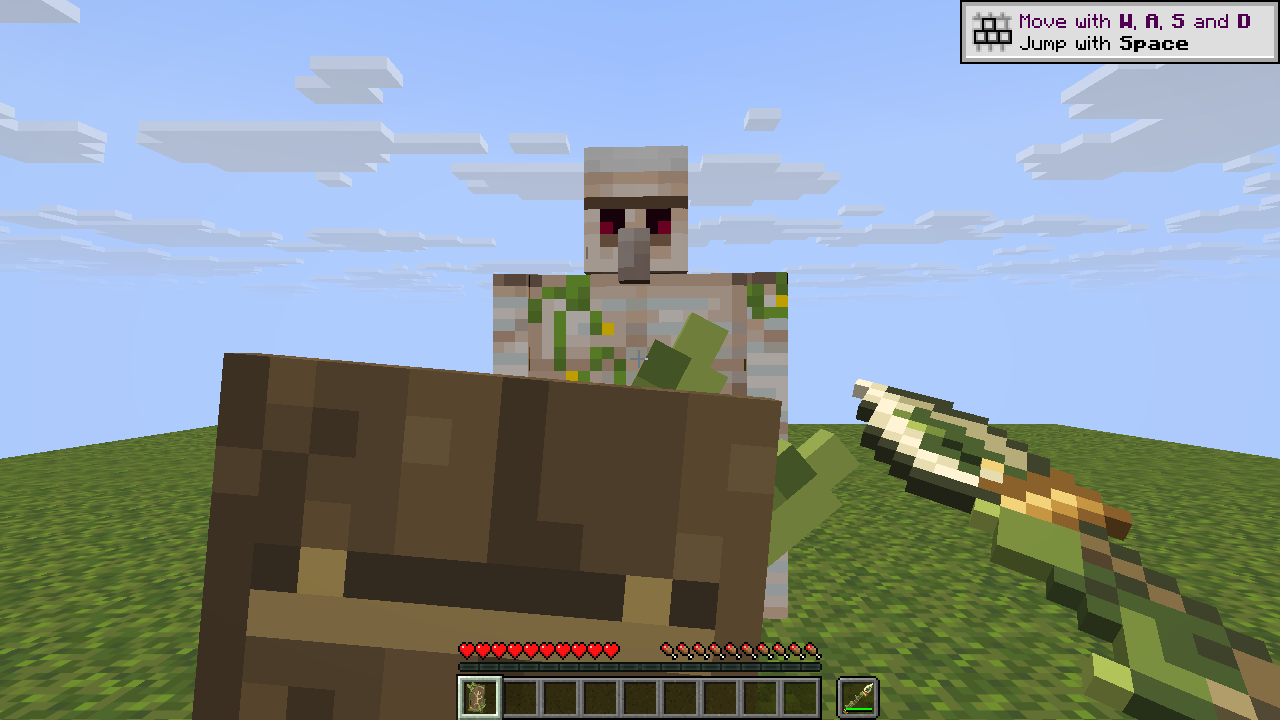
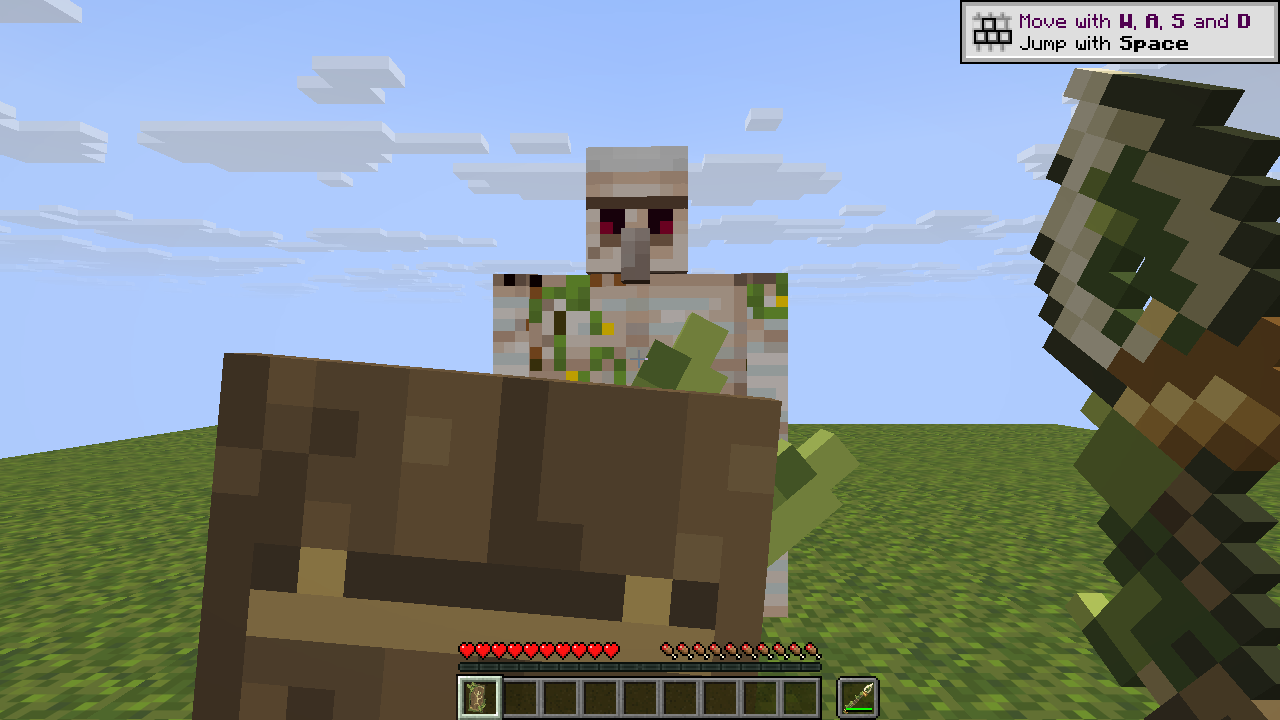
Unify spear and shield controls for both hands
正反手统一为右键举盾、左键戳刺，举盾中也可戳刺并保留原版减速。移除反手并行动能冲刺及专用姿态，保留副手伤害、冷却、种印和损毁槽位处理。更新四种客户端组合截图与分层验证记录。

Changed region(s): [[0.6562, 0.0917, 1.0, 1.0], [0.375, 0.3361, 0.5, 0.5194]]

diff --git a/src/main/java/dev/logos/dimension/gametest/ElfSpearGameTests.java b/src/main/java/dev/logos/dimension/gametest/ElfSpearGameTests.java
@@ -58,7 +58,6 @@ public final class ElfSpearGameTests {
                 Map.entry("elf_spear_many", ElfSpearGameTests::many),
                 Map.entry("elf_spear_offhand_delay", ElfSpearGameTests::offhandDelay),
                 Map.entry("elf_spear_guard_reverse", ElfSpearGameTests::guardReverse),
-                Map.entry("elf_spear_guard_charge", ElfSpearGameTests::guardCharge),
                 Map.entry("elf_spear_guard_no_charge", ElfSpearGameTests::guardNoCharge),
                 Map.entry("elf_spear_guard_break", ElfSpearGameTests::guardBreak));
         tests.forEach((name, test) -> FUNCTIONS.register(name, () -> test)); FUNCTIONS.register(bus);
@@ -276,34 +275,36 @@ public final class ElfSpearGameTests {
                     "副手矛属性残留为常驻加成");
             f.target.invulnerableTime = 0; stabPacket(f); health(h, f.target, 96);
             f.p.getMainHandItem().use(h.getLevel(), f.p, InteractionHand.MAIN_HAND);
-            h.assertTrue(f.p.isBlocking() && SpearShieldGuard.kineticActive(f.p), "反手右键没有同时举盾与冲刺");
+            h.assertTrue(f.p.isBlocking() && f.p.getUseItem().is(AncientEmbraceItem.ITEM.get()), "反手右键未正常举盾");
+            var origin = f.p.position();
+            for (int i = 0; i < 14; i++) { f.p.setDeltaMovement(Vec3.ZERO); f.p.doTick(); f.p.setPos(origin); }
+            f.p.setYRot(-90); f.p.setYHeadRot(-90); f.resetTarget(); f.target.setPos(origin.add(3, 0, 0));
+            int elapsed = f.p.getTicksUsingItem(); double mana = LogosNatureBridge.mana(f.p);
+            stabPacket(f); health(h, f.target, 96);
+            h.assertTrue(f.p.isBlocking() && f.p.getTicksUsingItem() == elapsed && f.marked()
+                    && LogosNatureBridge.mana(f.p) == mana && !f.target.hasEffect(LogosNatureBridge.lifeVulnerability().orElseThrow()),
+                    "反手举盾戳刺中断盾、误耗印记或造成生命追加");
+            h.assertTrue(f.p.getAttributeValue(Attributes.ATTACK_DAMAGE) == 1 && f.p.getAttributeValue(Attributes.ATTACK_SPEED) == 4,
+                    "反手举盾戳刺留下攻击属性");
             f.target.invulnerableTime = 0; stabPacket(f); health(h, f.target, 96);
-            h.assertTrue(LogosNatureBridge.mana(f.p) == 20 && f.marked(), "反手举盾时的左键误触戳刺或印记");
-        } h.succeed();
-    }
-    private static void guardCharge(GameTestHelper h) {
-        try (var f = Fixture.create(h)) {
-            reverse(f); stabPacket(f); f.resetTarget();
-            f.p.getMainHandItem().use(h.getLevel(), f.p, InteractionHand.MAIN_HAND);
-            f.p.resetOnlyAttackStrengthTicker(); f.p.known = new Vec3(.5, 0, 0);
-            f.p.getMainHandItem().onUseTick(h.getLevel(), f.p, 72000 - 11); health(h, f.target, 100);
-            f.p.getMainHandItem().onUseTick(h.getLevel(), f.p, 72000 - 12); health(h, f.target, 84);
-            h.assertTrue(f.p.isBlocking() && !f.marked() && LogosNatureBridge.mana(f.p) == 15
-                    && f.target.hasEffect(LogosNatureBridge.lifeVulnerability().orElseThrow()), "同时冲刺未保留盾或生命印记结算");
-            f.resetTarget(); f.p.getMainHandItem().onUseTick(h.getLevel(), f.p, 72000 - 13); health(h, f.target, 100);
-            h.assertTrue(f.p.wasRecentlyStabbed(f.target, 10), "未使用原版接触冷却表");
-            f.p.stopUsingItem(); f.p.getMainHandItem().onUseTick(h.getLevel(), f.p, 72000 - 14); health(h, f.target, 100);
-            h.assertTrue(!SpearShieldGuard.kineticActive(f.p), "收盾后仍在冲刺");
         } h.succeed();
     }
     private static void guardNoCharge(GameTestHelper h) {
-        try (var f = Fixture.create(h)) {
-            f.p.setItemInHand(InteractionHand.OFF_HAND, new ItemStack(AncientEmbraceItem.ITEM.get()));
-            f.p.getMainHandItem().use(h.getLevel(), f.p, InteractionHand.MAIN_HAND);
-            f.p.getOffhandItem().use(h.getLevel(), f.p, InteractionHand.OFF_HAND);
-            f.p.known = new Vec3(.5, 0, 0);
-            f.p.getOffhandItem().onUseTick(h.getLevel(), f.p, 72000 - 40); health(h, f.target, 100);
-            h.assertTrue(f.p.isBlocking() && !SpearShieldGuard.kineticActive(f.p), "主矛副盾错误启用冲刺");
+        for (boolean swapped : new boolean[]{false, true}) try (var f = Fixture.create(h)) {
+            if (swapped) reverse(f);
+            else f.p.setItemInHand(InteractionHand.OFF_HAND, new ItemStack(AncientEmbraceItem.ITEM.get()));
+            var shieldHand = swapped ? InteractionHand.MAIN_HAND : InteractionHand.OFF_HAND;
+            var shield = f.p.getItemInHand(shieldHand);
+            shield.use(h.getLevel(), f.p, shieldHand);
+            var mark = new SproutMark(f.p.getUUID(), h.getLevel().getGameTime() + 120);
+            f.target.setData(NatureAttachments.SPROUT_MARK, mark); double mana = LogosNatureBridge.mana(f.p);
+            f.p.known = new Vec3(1, 0, 0);
+            shield.onUseTick(h.getLevel(), f.p, 72000 - 40); health(h, f.target, 100);
+            h.assertTrue(f.p.isBlocking() && f.target.getData(NatureAttachments.SPROUT_MARK).equals(mark)
+                    && LogosNatureBridge.mana(f.p) == mana, "双持举盾错误触发动能冲撞或生命追加");
+            var effects = shield.getOrDefault(DataComponents.USE_EFFECTS, net.minecraft.world.item.component.UseEffects.DEFAULT);
+            var vanilla = new ItemStack(Items.SHIELD).getOrDefault(DataComponents.USE_EFFECTS, net.minecraft.world.item.component.UseEffects.DEFAULT);
+            h.assertTrue(effects.equals(vanilla) && effects.speedMultiplier() < 1, "未保留原版举盾减速");
         } h.succeed();
     }
     private static void guardBreak(GameTestHelper h) {

diff --git a/src/main/java/dev/logos/dimension/client/SpearShieldView.java b/src/main/java/dev/logos/dimension/client/SpearShieldView.java
@@ -19,7 +19,7 @@ import net.minecraft.world.level.GameType;
 import net.minecraft.world.level.block.Blocks;
 import net.minecraft.world.phys.Vec3;
 
-/** 四种握持/惯用手组合，用实际右键与左键输入验证盾优先、举盾戳刺和反手双使用姿态。 */
+/** 四种握持/惯用手组合，验证统一的右键举盾、举盾戳刺与两键同刻操作。 */
 @LDLRegisterClient(name = "spear_shield_main_right", group = "spear_shield", registry = UIScenario.REGISTRY, environment = RegistrationEnvironment.DEV_ONLY)
 public class SpearShieldView implements UIScenario {
     private HumanoidArm previousArm;
@@ -59,14 +59,16 @@ public class SpearShieldView implements UIScenario {
                 .server("复位靶子", ctx -> { var t = ctx.player().level().getEntity(targetId); t.setPos(.5, 100, 1); t.setDeltaMovement(Vec3.ZERO); })
                 .ticks(16).step("实际右键自动选择盾", ctx -> {
                     var mc = Minecraft.getInstance(); mc.options.keyUse.setDown(true); KeyMapping.click(mc.options.keyUse.getKey());
-                    if (reverse()) KeyMapping.click(mc.options.keyAttack.getKey());
+                    KeyMapping.click(mc.options.keyAttack.getKey());
                 }).waitUntil("举盾同步", ctx -> SpearShieldGuard.guarding(Minecraft.getInstance().player))
                 .ticks(15)
-                .check("实际使用手与冲刺模式", ctx -> Minecraft.getInstance().player.getUsedItemHand() == (reverse() ? InteractionHand.MAIN_HAND : InteractionHand.OFF_HAND)
-                        && SpearShieldGuard.kineticActive(Minecraft.getInstance().player) == reverse())
+                .check("实际使用手始终为盾", ctx -> Minecraft.getInstance().player.getUsedItemHand() == (reverse() ? InteractionHand.MAIN_HAND : InteractionHand.OFF_HAND)
+                        && Minecraft.getInstance().player.getUseItem().is(AncientEmbraceItem.ITEM.get()))
+                .checkServer("两键同刻可以戳刺并举盾", ctx -> ((LivingEntity) ctx.player().level().getEntity(targetId)).getHealth() == 92)
+                .server("复位同时攻击后的靶子", ctx -> { var t = ctx.player().level().getEntity(targetId); t.setPos(.5, 100, 1); t.setDeltaMovement(Vec3.ZERO); })
                 .screenshot("spear_shield_first_person")
                 .step("举盾中实际左键", ctx -> clickAttack()).ticks(5)
-                .checkServer("举盾左键遵循两种握持规则", ctx -> ((LivingEntity) ctx.player().level().getEntity(targetId)).getHealth() == (reverse() ? 96 : 92))
+                .checkServer("两种握持均可举盾戳刺", ctx -> ((LivingEntity) ctx.player().level().getEntity(targetId)).getHealth() == 88)
                 .check("左键没有放下盾", ctx -> SpearShieldGuard.guarding(Minecraft.getInstance().player))
                 .server("确认仍可实际格挡", ctx -> {
                     var target = (LivingEntity) ctx.player().level().getEntity(targetId); target.setPos(.5, 100, 1); target.setDeltaMovement(Vec3.ZERO);
@@ -79,7 +81,7 @@ public class SpearShieldView implements UIScenario {
                 .ticks(16).step("松开右键同时实际左键", ctx -> {
                     var mc = Minecraft.getInstance(); mc.options.keyUse.setDown(false); mc.options.setCameraType(CameraType.FIRST_PERSON); clickAttack();
                 }).waitUntil("收盾后立即恢复普通戳刺", ctx -> !Minecraft.getInstance().player.isUsingItem()
-                        && ((LivingEntity) Minecraft.getInstance().level.getEntity(targetId)).getHealth() == (reverse() ? 92 : 88))
+                        && ((LivingEntity) Minecraft.getInstance().level.getEntity(targetId)).getHealth() == 84)
                 .checkServer("收盾未消费治疗魔力", ctx -> LogosNatureBridge.mana(ctx.player()) >= 50)
                 .teardown("恢复矛盾检查设置", ctx -> {
                     var mc = Minecraft.getInstance(); mc.options.keyUse.setDown(false); mc.options.setCameraType(CameraType.FIRST_PERSON);

diff --git a/src/main/java/dev/logos/dimension/mixin/AncientEmbraceBlockMixin.java b/src/main/java/dev/logos/dimension/mixin/AncientEmbraceBlockMixin.java
@@ -8,36 +8,10 @@ import net.minecraft.server.level.ServerPlayer;
 import net.minecraft.world.damagesource.DamageSource;
 import net.minecraft.world.entity.LivingEntity;
 import org.spongepowered.asm.mixin.Mixin;
-import org.spongepowered.asm.mixin.Shadow;
-import org.spongepowered.asm.mixin.injection.At;
-import org.spongepowered.asm.mixin.injection.Inject;
-import org.spongepowered.asm.mixin.injection.callback.CallbackInfo;
 
 /** 读取最终格挡结果，保留方向、绕盾伤害、穿透、耐久损耗和禁盾行为。 */
 @Mixin(LivingEntity.class)
 public abstract class AncientEmbraceBlockMixin {
-    @Shadow protected it.unimi.dsi.fastutil.objects.Object2LongMap<net.minecraft.world.entity.Entity> recentKineticEnemies;
-
-    /** 盾是实际使用物品时也初始化原版动能接触表，停止使用仍由原版清空。 */
-    @Inject(method = "startUsingItem", at = @At("TAIL"))
-    private void startGuardedCharge(net.minecraft.world.InteractionHand hand, CallbackInfo ci) {
-        if ((Object) this instanceof ServerPlayer player
-                && dev.logos.dimension.item.SpearShieldGuard.kineticActive(player) && recentKineticEnemies == null) {
-            recentKineticEnemies = new it.unimi.dsi.fastutil.objects.Object2LongOpenHashMap<>();
-        }
-    }
-
-    /** 原版命中反馈仍按原时序播放，反手搭配从副手矛读取音效组件。 */
-    @com.llamalad7.mixinextras.injector.wrapoperation.WrapOperation(method = "onKineticHit", at = @At(value = "INVOKE",
-            target = "Lnet/minecraft/world/item/ItemStack;get(Lnet/minecraft/core/component/DataComponentType;)Ljava/lang/Object;"))
-    private Object guardedHitFeedback(net.minecraft.world.item.ItemStack used,
-            net.minecraft.core.component.DataComponentType<?> type, Operation<Object> original) {
-        if ((Object) this instanceof net.minecraft.world.entity.player.Player player
-                && dev.logos.dimension.item.SpearShieldGuard.kineticActive(player)) {
-            return player.getOffhandItem().get(net.minecraft.core.component.DataComponents.KINETIC_WEAPON);
-        }
-        return original.call(used, type);
-    }
     @WrapMethod(method = "applyItemBlocking")
     private float ancientEmbraceBlock(ServerLevel level, DamageSource source, float damage, Operation<Float> original) {
         var entity = (LivingEntity) (Object) this;

diff --git a/src/main/java/dev/logos/dimension/item/AncientEmbraceItem.java b/src/main/java/dev/logos/dimension/item/AncientEmbraceItem.java
@@ -55,25 +55,6 @@ public final class AncientEmbraceItem extends ShieldItem {
 
     public static void register(IEventBus bus) { COMPONENTS.register(bus); }
 
-    @Override public net.minecraft.world.InteractionResult use(Level level, net.minecraft.world.entity.player.Player player,
-                                                              net.minecraft.world.InteractionHand hand) {
-        boolean starting = !player.isUsingItem();
-        var result = super.use(level, player, hand);
-        if (starting && SpearShieldGuard.kineticActive(player)) {
-            var kinetic = player.getOffhandItem().get(DataComponents.KINETIC_WEAPON);
-            if (kinetic != null) kinetic.makeSound(player);
-        }
-        return result;
-    }
-
-    /** 主盾副矛共享一次持续使用时间，额外调用原版副手矛动能组件；主矛副盾不启用此路径。 */
-    @Override public void onUseTick(Level level, LivingEntity entity, ItemStack shield, int remaining) {
-        if (entity instanceof ServerPlayer player && SpearShieldGuard.kineticActive(player)) {
-            var spear = player.getOffhandItem(); var kinetic = spear.get(DataComponents.KINETIC_WEAPON);
-            if (kinetic != null) kinetic.damageEntities(spear, remaining, player, EquipmentSlot.OFFHAND);
-        }
-    }
-
     /** 在原版及其它模组完成格挡结算后记录实际挡下的攻击，盾被禁用不会自动触发收盾治疗。 */
     public static void blocked(ServerPlayer player, ItemStack shield, int elapsedTicks) {
         long now = player.level().getGameTime();

diff --git a/src/main/java/dev/logos/dimension/client/SpearShieldInput.java b/src/main/java/dev/logos/dimension/client/SpearShieldInput.java
@@ -17,15 +17,11 @@ public final class SpearShieldInput {
         if (mc.screen != null || player == null || mc.gameMode == null || !SpearShieldGuard.paired(player)
                 || !player.isAlive() || player.isSpectator()) return;
         boolean reverse = SpearShieldGuard.reversed(player);
-        if (reverse && mc.options.keyUse.isDown()) {
-            // 两键同刻按下时也让右键优先，不先打出一次副手戳刺或主手盾普攻。
-            while (mc.options.keyAttack.consumeClick()) {}
-            return;
-        }
+        if (player.isUsingItem() && !SpearShieldGuard.guarding(player)) return;
         if (!reverse && !SpearShieldGuard.guarding(player)) return;
         while (mc.options.keyAttack.consumeClick()) {
-            // 松开右键与左键发生在同一刻时，先按原版方式收盾，再发送副手戳刺，避免输入被吞。
-            if (reverse && player.isUsingItem()) mc.gameMode.releaseUsingItem(player);
+            // 松开右键与左键发生在同一刻时先正常收盾；按住右键时戳刺不打断格挡。
+            if (!mc.options.keyUse.isDown() && player.isUsingItem()) mc.gameMode.releaseUsingItem(player);
             SpearShieldGuard.withSpearAttributes(player, () -> {
                 var hand = SpearShieldGuard.spearHand(player); var stack = player.getItemInHand(hand);
                 if (player.isHandsBusy() || player.cannotAttackWithItem(stack, 0)) return;

diff --git a/src/main/java/dev/logos/dimension/mixin/ElfSpearAttackMixin.java b/src/main/java/dev/logos/dimension/mixin/ElfSpearAttackMixin.java
@@ -14,15 +14,6 @@ import org.spongepowered.asm.mixin.injection.Redirect;
 /** 在玩家原版长矛刺击真正造成物理命中后接入印记，沿用其射程、阻挡、速度和冷却判断。 */
 @Mixin(Player.class)
 public abstract class ElfSpearAttackMixin {
-    /** 主盾副矛的动能命中按持续冲刺结算，避免被原版误认为普通戳刺而叠加左键冷却缩放。 */
-    @com.llamalad7.mixinextras.injector.wrapoperation.WrapOperation(method = "stabAttack", at = @At(value = "INVOKE",
-            target = "Lnet/minecraft/world/InteractionHand;asEquipmentSlot()Lnet/minecraft/world/entity/EquipmentSlot;"))
-    private EquipmentSlot guardedChargeSlot(net.minecraft.world.InteractionHand hand,
-            com.llamalad7.mixinextras.injector.wrapoperation.Operation<EquipmentSlot> original,
-            EquipmentSlot slot, Entity target, float damage, boolean dealsDamage, boolean knocksBack, boolean dismounts) {
-        if (slot == EquipmentSlot.OFFHAND && dev.logos.dimension.item.SpearShieldGuard.kineticActive((Player) (Object) this)) return slot;
-        return original.call(hand);
-    }
     @Redirect(method = "stabAttack", at = @At(value = "INVOKE",
             target = "Lnet/minecraft/world/entity/Entity;hurtOrSimulate(Lnet/minecraft/world/damagesource/DamageSource;F)Z"))
     private boolean elfSpearHit(Entity victim, DamageSource source, float amount,

diff --git a/src/main/java/dev/logos/dimension/item/SpearShieldGuard.java b/src/main/java/dev/logos/dimension/item/SpearShieldGuard.java
@@ -24,9 +24,6 @@ public final class SpearShieldGuard {
     public static boolean reversed(Player player) {
         return paired(player) && spearHand(player) == InteractionHand.OFF_HAND;
     }
-    public static boolean kineticActive(Player player) {
-        return reversed(player) && guarding(player) && player.getUsedItemHand() == InteractionHand.MAIN_HAND;
-    }
     public static InteractionHand spearHand(Player player) {
         return player.getMainHandItem().is(ElfSpearItem.ITEM.get()) ? InteractionHand.MAIN_HAND : InteractionHand.OFF_HAND;
     }
@@ -54,7 +51,8 @@ public final class SpearShieldGuard {
 
     /** 接收原版 STAB 包时处理反手搭配；仍使用原版长矛射线、命中、附魔与耐久路径。 */
     public static void offhandAttack(Player player) {
-        if (!reversed(player) || player.isUsingItem() || !player.isAlive() || player.isSpectator()) return;
+        if (!reversed(player) || !player.isAlive() || player.isSpectator()
+                || player.isUsingItem() && !guarding(player)) return;
         withSpearAttributes(player, () -> {
             var stack = player.getOffhandItem();
             if (player.cannotAttackWithItem(stack, 5)) return;

diff --git a/src/main/java/dev/logos/dimension/item/ElfSpearItem.java b/src/main/java/dev/logos/dimension/item/ElfSpearItem.java
@@ -45,8 +45,7 @@ public final class ElfSpearItem extends Item {
     public static void afterPhysicalHit(ServerPlayer player, LivingEntity target, EquipmentSlot slot) {
         if (!player.getItemBySlot(slot).is(ITEM.get()) || !target.isAlive()) return;
         long now = target.level().getGameTime();
-        boolean charging = player.isUsingItem() && (player.getUsedItemHand().asEquipmentSlot() == slot
-                || slot == EquipmentSlot.OFFHAND && SpearShieldGuard.kineticActive(player));
+        boolean charging = player.isUsingItem() && player.getUsedItemHand().asEquipmentSlot() == slot;
         if (!charging) {
             target.setData(NatureAttachments.SPROUT_MARK, new SproutMark(player.getUUID(), now + MARK_TICKS));
             return;

diff --git a/docs/ANCIENT_EMBRACE.md b/docs/ANCIENT_EMBRACE.md
@@ -18,16 +18,15 @@
 
 ## 与精灵长矛双持
 
-双手分别拿 `ancient_embrace` 与 `elf_spear` 时，按主副手排列使用两种操作；左右惯用手设置均适用。
+双手分别拿 `ancient_embrace` 与 `elf_spear` 时，主副手位置和左右惯用手均使用相同操作：
 
-| 排列 | 未按右键时左键 | 按住右键 | 按住右键时左键 |
-| --- | --- | --- | --- |
-| 主手矛、副手盾 | 正常戳刺 | 举盾 | 保持举盾并正常戳刺 |
-| 主手盾、副手矛 | 副手矛正常戳刺 | 同时举盾与进入矛的持续冲刺姿态 | 不戳刺，保持举盾与冲刺 |
+- **右键举盾**，保留原版举盾减速。
+- **左键用矛戳刺**，未举盾、持续举盾、两键同时按下或松开右键同刻按左键都可使用。
+- 戳刺沿用四点基础物理伤害、十三刻间隔和萌芽种印；举盾戳刺不收盾、不触发治疗、不重置极限格挡窗口。
 
-反手搭配的两种持续姿态共用一次右键使用时间，松开右键一起结束。盾仍立即格挡，矛仍需完成铁矛原有的十二刻起手才结算动能碰撞；保留原版相对速度伤害、方向、距离、方块阻挡、十刻接触冷却及生命印记消耗。移动使用原版举盾规则，动能伤害仍取实际相对接近速度。
+双持期间右键只使用盾，移动碰撞不会触发矛的动能伤害或消耗萌芽印记。收起古木盾后，矛的右键恢复原版冲刺，仍可消耗印记追加生命伤害与施加易伤。
 
-普通戳刺沿用四点基础物理伤害、十三刻间隔和萌芽种印；举盾戳刺不收盾、不触发治疗、不重置极限格挡窗口。副手戳刺的武器属性只在该次结算期间生效，换手不会给主手盾或其它物品留下伤害、攻速加成。其它盾或长矛搭配沿用原版交互。
+副手戳刺的武器属性只在该次结算期间生效，换手不会给主手盾或其它物品留下伤害、攻速加成；副手矛损毁使用实际副手槽位，保留主手盾。其它盾或长矛搭配沿用原版交互。
 
 ## 五叶蓄生与极限格挡
 

diff --git a/VERIFICATION.md b/VERIFICATION.md
@@ -1,5 +1,20 @@
 # 首版验证记录
 
+## 统一矛盾正反手操作（当前方案）
+
+2026-10-28：在 `codex/ancient-embrace` 的 `9e78f9a` 之上调整。正反手均为右键举盾、左键戳刺，持续举盾也能戳刺，保留原版举盾减速。删除反手的动能并行结算、接触表与冲刺反馈接入及双使用姿态；双持期间不会因移动碰撞消耗印记。收起古木盾后仍可单独使用长矛的原版冲刺与生命追加。下方双持记录描述此前方案，已由本节取代。
+
+验证环境：Minecraft 26.1.2、NeoForge 26.1.2.112、Java 25.0.3、Logos 0.6.0（`14c3260`）。
+
+| 层级 | 结果 |
+| --- | --- |
+| 单元与构建 | **95/95** 通过，`test build` 成功 |
+| 世界：精灵长矛 | **16/16** 通过；反手举盾戳刺仍造成四点物理伤害并种印，不放下盾、不刷新举盾时间、不扣魔力或触发生命追加，保留冷却及临时属性清理；两种握持均无动能碰撞并保留原版减速；单独冲刺及副手损毁回归通过 |
+| 世界：古木之拥 | **12/12** 通过，保留五叶蓄生、极限格挡、收盾治疗和主手矛举盾戳刺行为 |
+| 实际客户端（`group:spear_shield`） | **4/4 场景、28/28 检查**通过：两种主副手排列 × 两种惯用手，普通戳刺、两键同刻戳刺并举盾、持续举盾戳刺、保持实际格挡及叶片充能、松开右键同刻恢复戳刺；人工检查第一/第三人称截图 |
+
+更新 `docs/screenshots/spear-shield/` 为统一操作后的实际截图。安装包检查确认移除的双使用姿态类和 Mixin 均未残留。未验证远程多人或光影包，没有重跑自然之力世界套件与完整世界生成套件。
+
 ## 古木之拥与精灵长矛的双持操作
 
 2026-10-28：在 `codex/ancient-embrace` 的 `a209503` 之上追加，仍属于古木之拥功能分支，尚未合入 `main`。环境为 Minecraft 26.1.2、NeoForge 26.1.2.112、Java 25.0.3、Logos 0.6.0（`14c3260`）。

diff --git a/README.md b/README.md
@@ -48,7 +48,7 @@
 
 新增生命系列盾牌 `logos_dimension:ancient_embrace`，使用提供的完整模型和原图，耐久沿用原版盾的 336 点。取消自己的五刻举盾前摇，成功格挡点亮一片叶；举盾前五刻格挡奖励两片。五片全亮后收盾消耗 5 魔力恢复 4 点生命，技能冷却八秒，见 [古木之拥](docs/ANCIENT_EMBRACE.md)。
 
-与精灵长矛双持：主手矛、副手盾时右键举盾，举盾中仍可左键戳刺；主手盾、副手矛时右键同时举盾与冲刺，期间左键不戳刺，收盾后左键恢复副手矛戳刺。两种惯用手均适用。
+与精灵长矛双持时，正反手统一为右键举盾、左键戳刺，举盾中仍可戳刺，保留原版举盾减速。收起古木盾后，矛的右键恢复原版冲刺。两种惯用手均适用。
 
 ## 原版数据包生成
 

diff --git a/docs/ELF_SPEAR.md b/docs/ELF_SPEAR.md
@@ -26,7 +26,7 @@
 
 ## 与古木之拥双持
 
-主手矛、副手古木盾时，右键优先举盾，举盾过程中左键仍可戳刺。换成主手盾、副手矛时，右键同时举盾并启用矛的原版动能冲刺，此时左键不戳刺；松开右键后左键恢复副手矛的正常戳刺。该联动保留戳刺种印、冲刺消耗印记和生命易伤机制，详见 [古木之拥](ANCIENT_EMBRACE.md)。
+与古木盾双持时，主副手位置和左右惯用手均统一为右键举盾、左键戳刺，举盾中仍可戳刺并保留原版举盾减速。双持期间不启用矛的动能冲撞；戳刺仍种印，收起古木盾后可用矛的原版冲刺消耗印记并触发生命追加与易伤，详见 [古木之拥](ANCIENT_EMBRACE.md)。
 
 ## 萌芽印记与生命易伤
 
